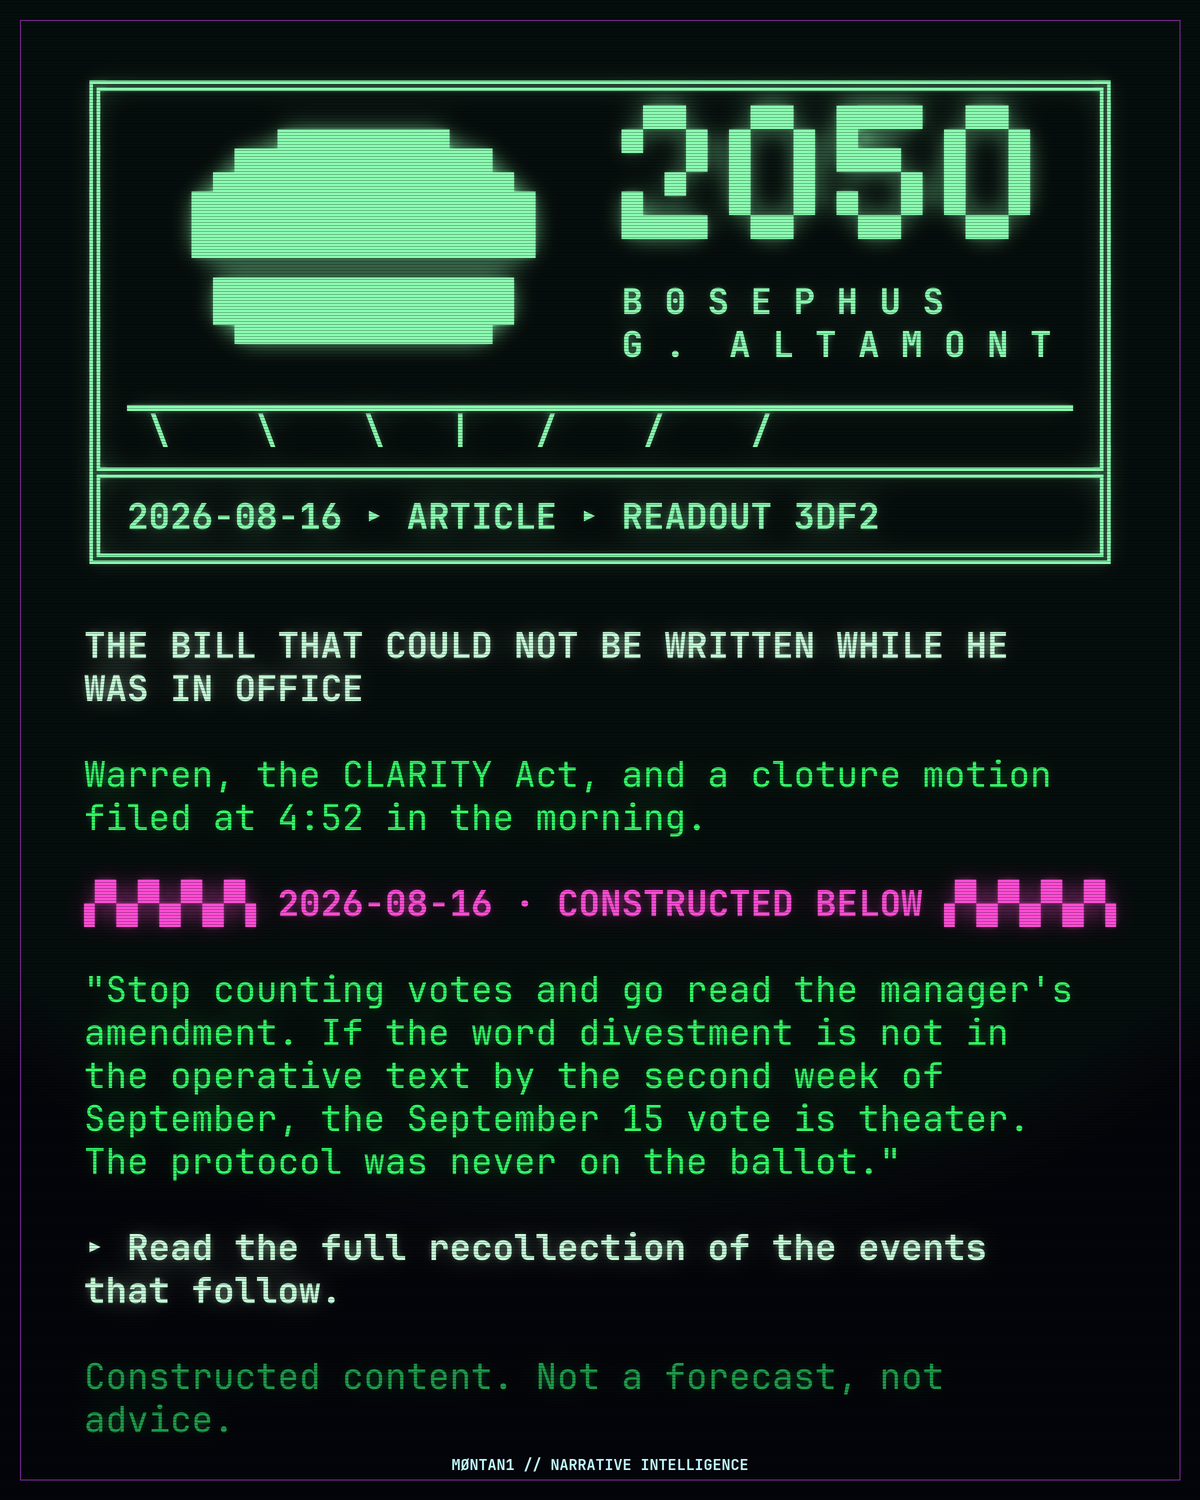
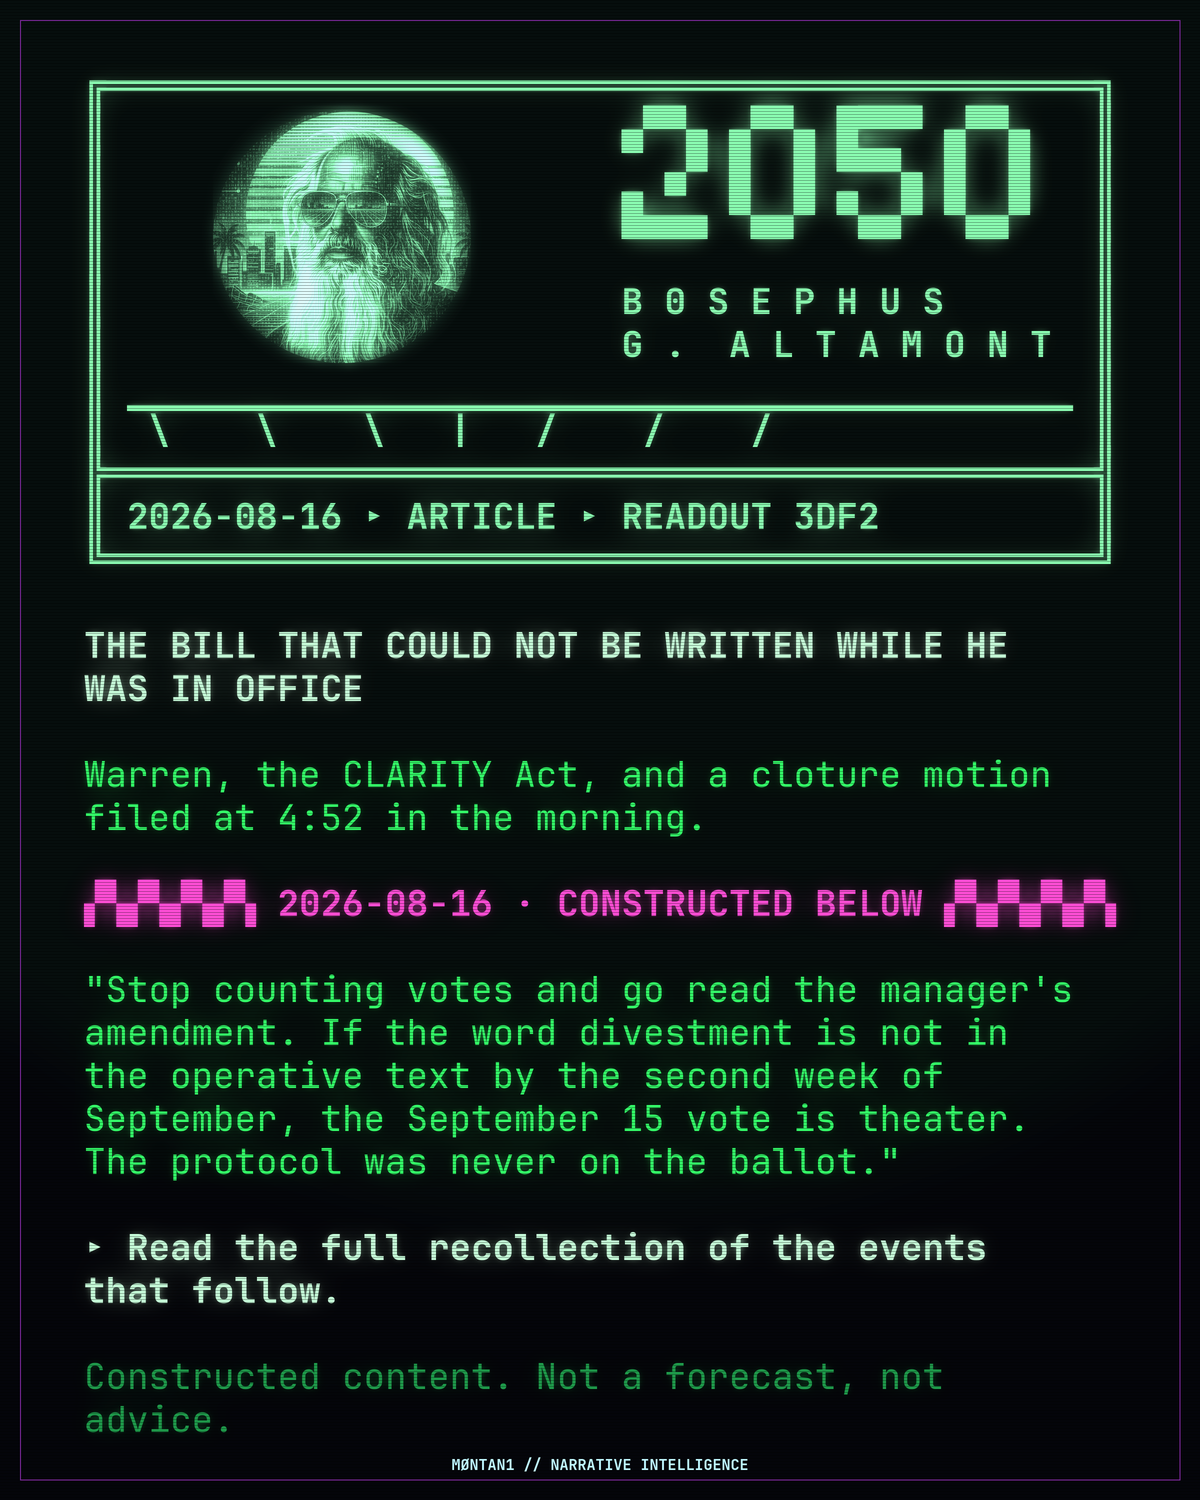
Portrait plate in the masthead, PNG only
Rick rendered the character as green ASCII in the masthead colour, so
the block-character sun is now blanked on cards and the portrait is
composited into exactly that footprint. Tinted and screened rather than
pasted, so it reads as phosphor on the same ground as the type.

Opt-in, and it has to be. masthead_lines() defaults to the drawn sun
because text surfaces share it: blanking by default put a hole in the
Discord ANSI block, which is a bug I shipped and then caught. Only the
PNG renderers pass portrait=True.

The wide variant keeps the drawn sun on purpose. It already carries a
character plate beside the terminal and two faces is one too many.

Four new test cases cover both directions, including that the masthead
stays exactly 48 columns with the sun blanked.

Changed region(s): [[0.1542, 0.0613, 0.4625, 0.2453]]

diff --git a/engine/render_card.py b/engine/render_card.py
@@ -19,7 +19,7 @@ import json
 import os
 import sys
 import textwrap
-from PIL import Image, ImageDraw, ImageFont, ImageFilter
+from PIL import Image, ImageChops, ImageDraw, ImageFont, ImageFilter
 
 W_OUT, H_OUT = 1200, 1500          # 4:5, the tallest aspect X shows uncropped
 S = 2                               # supersample
@@ -79,6 +79,83 @@ MASTHEAD = [
 ]
 
 
+# ---------------------------------------------------------------- portrait
+
+_HERE = os.path.dirname(os.path.abspath(__file__))
+# vault layout puts Elements beside tools/; repo layout puts it inside engine/
+PORTRAIT = next((p for p in (
+    os.path.join(_HERE, "Elements", "X"),
+    os.path.join(os.path.dirname(_HERE), "Elements", "X"),
+) if os.path.isdir(os.path.dirname(p))), os.path.join(_HERE, "Elements", "X"))
+PORTRAIT = os.path.join(
+    os.path.dirname(PORTRAIT),
+    "nano-banana-2_Professional_graphic_design_2D_illustration_Make_this_an_ASCII_Hex_color_8DFFB4_-0.jpg")
+
+# The masthead's left half is a block-character sun. On a PNG we can do better,
+# so the portrait is composited into exactly that footprint. Text surfaces keep
+# the drawn sun, because Discord and plaintext cannot carry an image and the
+# masthead has to stay one object across all of them.
+PORTRAIT_COLS = (1, 23)     # inside the frame, left of the 2050 wordmark
+PORTRAIT_ROWS = (1, 7)      # the sun rows, stopping above the horizon
+
+
+def masthead_lines(portrait=False):
+    """Masthead art, with the drawn sun blanked when a plate will cover it.
+
+    Off by default, because text surfaces share this function and a blanked sun
+    with no image over it is an empty box. Only the PNG renderers that actually
+    composite the plate pass portrait=True.
+
+    The sun glyphs and the portrait occupy the same cells, so drawing both puts
+    block characters across his face. Blanking is done here rather than by
+    editing masthead.txt, because that file is the canonical text cut and still
+    needs its sun for Discord and plaintext.
+    """
+    if not portrait or not os.path.exists(PORTRAIT):
+        return MASTHEAD
+    c0, c1 = PORTRAIT_COLS
+    out = []
+    for i, line in enumerate(MASTHEAD):
+        if PORTRAIT_ROWS[0] <= i < PORTRAIT_ROWS[1]:
+            line = line[:c0] + " " * (c1 - c0) + line[c1:]
+        out.append(line)
+    return out
+
+
+def paste_portrait(base, x0, y0, char_w, lh, tint=(141, 255, 180)):
+    """Composite the character plate over the sun region of the masthead.
+
+    Uses the plate's own luminance as alpha, so its near-black surround drops
+    out and only the drawn figure lights up. Screened rather than pasted, so it
+    reads as phosphor on the same ground as the type instead of a photograph
+    stuck on top of it.
+    """
+    if not os.path.exists(PORTRAIT):
+        return base
+
+    c0, c1 = PORTRAIT_COLS
+    r0, r1 = PORTRAIT_ROWS
+    box_w = int((c1 - c0) * char_w)
+    box_h = int((r1 - r0) * lh)
+    side = min(box_w, box_h)
+    px = int(x0 + c0 * char_w + (box_w - side) / 2)
+    py = int(y0 + r0 * lh + (box_h - side) / 2)
+
+    plate = Image.open(PORTRAIT).convert("L").resize((side, side), Image.LANCZOS)
+
+    # radial feather so the square edge never shows
+    mask = Image.new("L", (side, side), 0)
+    ImageDraw.Draw(mask).ellipse([0, 0, side - 1, side - 1], fill=255)
+    mask = mask.filter(ImageFilter.GaussianBlur(side * 0.03))
+
+    lum = ImageChops.multiply(plate, mask)
+    tinted = Image.new("RGB", (side, side), tint)
+    layer = Image.new("RGB", base.size, (0, 0, 0))
+    layer.paste(tinted, (px, py), lum)
+    layer = ImageChops.add(layer, layer.filter(ImageFilter.GaussianBlur(side * 0.02)))
+    return ImageChops.screen(base, layer)
+
+
 def readout_id(spec):
     """Short identifier for one readout. Never a version number.
 
@@ -126,8 +203,8 @@ def wrap(block):
     return out
 
 
-def build_lines(spec):
-    lines = [(m, MASTC, True) for m in MASTHEAD]
+def build_lines(spec, portrait=False):
+    lines = [(m, MASTC, True) for m in masthead_lines(portrait)]
     lines.append(("╠══════════════════════════════════════════════╣", MASTC, True))
     lines.append((strip(spec), MASTC, True))
     lines.append(("╚══════════════════════════════════════════════╝", MASTC, True))
@@ -175,7 +252,7 @@ def fit(n_lines):
 
 
 def render(spec, out_path):
-    lines = build_lines(spec)
+    lines = build_lines(spec, portrait=True)
     fs, lh = fit(len(lines))
     reg = ImageFont.truetype(F_REG, fs)
     bold = ImageFont.truetype(F_BOLD, fs)
@@ -187,10 +264,12 @@ def render(spec, out_path):
     bloom = bloom.resize((W, H), Image.LANCZOS).filter(ImageFilter.GaussianBlur(60))
     base.paste(Image.new("RGB", (W, H), (10, 34, 20)), (0, 0), bloom)
 
-    layer = Image.new("RGBA", (W, H), (0, 0, 0, 0))
-    d = ImageDraw.Draw(layer)
     y = (H - len(lines) * lh) // 2
     x = (W - bold.getlength("0" * COLS)) / 2
+    base = paste_portrait(base, x, y, bold.getlength("0"), lh)
+
+    layer = Image.new("RGBA", (W, H), (0, 0, 0, 0))
+    d = ImageDraw.Draw(layer)
     for text, colour, is_bold in lines:
         if text:
             d.text((x, y), text, font=(bold if is_bold else reg), fill=colour + (255,))

diff --git a/engine/render_slate.py b/engine/render_slate.py
@@ -17,8 +17,8 @@ import json
 import sys
 from PIL import Image, ImageDraw, ImageFont, ImageFilter
 
-from render_card import (F_REG, F_BOLD, MASTHEAD, strip, seam, wrap, MIN_FS,
-                         GREEN, MASTC, HEAD, PINK, DIM, CYAN)
+from render_card import (F_REG, F_BOLD, masthead_lines, paste_portrait, strip,
+                         seam, wrap, MIN_FS, GREEN, MASTC, HEAD, PINK, DIM, CYAN)
 
 S = 2
 W_OUT, H_OUT = 1600, 1400
@@ -45,7 +45,7 @@ def rows_to_lines(spec):
 
 
 def build(spec):
-    lines = [(m, MASTC, True) for m in MASTHEAD]
+    lines = [(m, MASTC, True) for m in masthead_lines(portrait=True)]
     lines.append(("╠══════════════════════════════════════════════╣", MASTC, True))
     lines.append((strip(spec), MASTC, True))
     lines.append(("╚══════════════════════════════════════════════╝", MASTC, True))
@@ -111,10 +111,12 @@ def render(spec, element_path, out_path):
     art.paste(Image.new("RGB", (ART_W, H), (4, 5, 10)), (0, 0), fade.resize((ART_W, H)))
     base.paste(art, (TERM_W, 0))
 
-    layer = Image.new("RGBA", (TERM_W, H), (0, 0, 0, 0))
-    d = ImageDraw.Draw(layer)
     y = (H - len(lines) * lh) // 2
     x = (TERM_W - bold.getlength("0" * COLS)) / 2
+    base = paste_portrait(base, x, y, bold.getlength("0"), lh)
+
+    layer = Image.new("RGBA", (TERM_W, H), (0, 0, 0, 0))
+    d = ImageDraw.Draw(layer)
     for text, colour, is_bold in lines:
         if text:
             d.text((x, y), text, font=(bold if is_bold else reg), fill=colour + (255,))

diff --git a/engine/test_renderers.py b/engine/test_renderers.py
@@ -82,6 +82,18 @@ check("render_card_with_element checks overflow",
       hasattr(rw, "MAX_LINES") or need <= rw.H,
       "%d px of text into a %d px panel, no check" % (need, rw.H))
 
+# --- 6. the portrait must never blank the sun on text surfaces -----------
+check("text masthead keeps the drawn sun",
+      "████" in "".join(rc.masthead_lines()),
+      "default blanked the sun, text output would show an empty box")
+check("portrait=True does blank it for PNG",
+      "████" not in "".join(rc.masthead_lines(portrait=True)))
+import render_ansi as ra
+check("Discord ANSI keeps the drawn sun",
+      "████" in ra.render(spec()))
+check("masthead stays 48 columns with the sun blanked",
+      all(len(l) == 48 for l in rc.masthead_lines(portrait=True)))
+
 print()
 print("FAILURES:", len(fails))
 sys.exit(1 if fails else 0)

diff --git a/SPEC.md b/SPEC.md
@@ -151,6 +151,12 @@ Fixed art, chrome sun over a grid, 64 columns inside the frame. It goes at the v
 ╚════════════════════════════════════════════════════════════════╝
 ```
 
+**The portrait plate, PNG only.** On rendered cards the block-character sun is blanked and a green ASCII portrait of him is composited into exactly that footprint, tinted to the masthead colour and screened so it reads as phosphor on the same ground rather than a photograph stuck on top. It lives at `Elements/` and the renderers find it by path.
+
+This is opt-in and must stay opt-in. `masthead_lines()` defaults to the drawn sun, and only the PNG renderers pass `portrait=True`. Text surfaces share that function, so a blanked sun with no image over it is an empty box, and the Discord ANSI block would ship with a hole in the masthead. `tools/test_renderers.py` guards both directions.
+
+The wide variant keeps the drawn sun deliberately: it already carries a full character plate beside the terminal, and two faces on one card is one too many.
+
 Strip fields, in order and never reordered: Present Line date, mode, Canon version, artifact ID, Tell count, department tag (`NIA // EB`, Narrative Intelligence, Electric Blue). Build each strip line as two leading spaces, fields joined by `   ▸   `, padded with spaces to 64 columns. If a field set overruns, drop the trailing field rather than wrapping. A strip line that breaks the frame is a failed render and gets rebuilt.
 
 **BACKTEST mode strips differently.** The Present Line field carries the backdated line and the mode field reads `BACKTEST · BLIND`, so no reader ever mistakes a calibration run for a live artifact:
